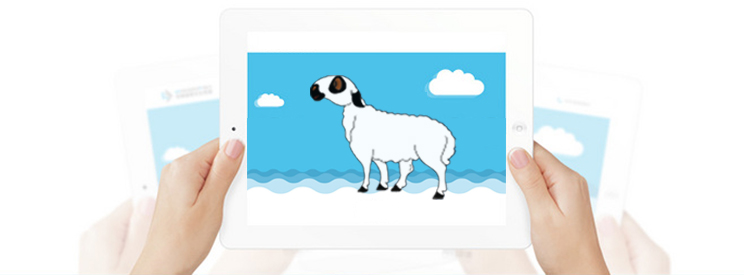
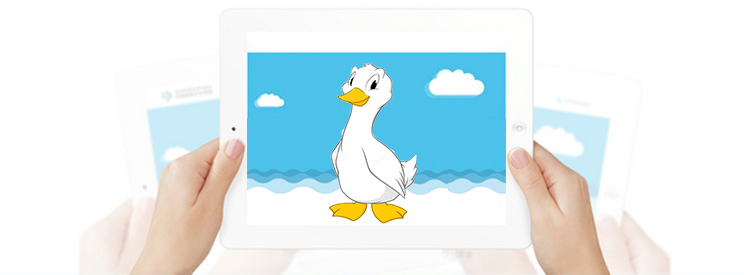
text 2017.12.29

Changed region(s): [[0.4019, 0.2327, 0.6183, 0.8145]]

diff --git a/application/wap/view/Index/introduce.html b/application/wap/view/Index/introduce.html
@@ -25,7 +25,7 @@
 				width: 7.35rem;
 				height: 2.45rem;
 				margin: 2rem auto 0.425rem auto;
-				background: url(__WAP__/img/logo.jpg) no-repeat center center;
+				background: url(__WAP__/img/logo.png) no-repeat center center;
 				background-size: cover;
 			}
 
@@ -54,7 +54,7 @@
 			.illustration01 {
 				width: 100%;
 				height: 6rem;
-				background: url(__WAP__/img/project.jpg) no-repeat center center;
+				background: url(__WAP__/img/imgs/200586608227222347.jpg) no-repeat center center;
 				background-size: 100%;
 				margin-top: 0.7rem;
 			}
@@ -99,12 +99,21 @@
 					<div class="brief_introduction">
 						<div class="word-spacing">三、农场风景</div>
 						<ul>
-							<li><img src="__WAP__/img/inn01.jpg" alt=""></li>
-							<li><img src="__WAP__/img/inn02.jpg" alt=""></li>
-							<li><img src="__WAP__/img/inn03.jpg" alt=""></li>
-							<li><img src="__WAP__/img/inn04.jpg" alt=""></li>
-							<li><img src="__WAP__/img/inn05.jpg" alt=""></li>
-							<li><img src="__WAP__/img/inn06.jpg" alt=""></li>
+							
+							
+							<li><img src="__WAP__/img/imgs/754557524470035137.jpg" alt=""></li>
+							<li><img src="__WAP__/img/imgs/711103321430648406.jpg" alt=""></li>
+							<li><img src="__WAP__/img/imgs/158164013920032663.jpg" alt=""></li>
+							
+							<li><img src="__WAP__/img/imgs/542396689565348476.jpg" alt=""></li>
+							<li><img src="__WAP__/img/imgs/373644775705408907.jpg" alt=""></li>
+							<li><img src="__WAP__/img/imgs/51846051622239686.jpg" alt=""></li>
+							<li><img src="__WAP__/img/imgs/823884902952586132.jpg" alt=""></li>
+							<li><img src="__WAP__/img/imgs/774990378130531094.jpg"/></li>
+							
+							<li><img src="__WAP__/img/imgs/803919897953210621.jpg"/></li>
+							<li><img src="__WAP__/img/imgs/549207540365034072.jpg"/></li>
+							<li><img src="__WAP__/img/imgs/64428728003577805.jpg"/></li>
 						</ul>
 					</div>
 				</div>
@@ -115,6 +124,7 @@
 		</div>
 		<script src="__WAP__/js/header.js" type="text/javascript" charset="utf-8"></script>
 		<script type="text/javascript">
+			$(".illustration01").height(($(".illustration01").width()/815*441)+"px");
 		</script>
 	</body>
 

diff --git a/application/wap/view/Index/zhidao.html b/application/wap/view/Index/zhidao.html
@@ -83,15 +83,15 @@
 				<div class="grude-in guide_top_04"></div>
 				<div class="guide_middle_04">
 					<div class="guide_detail_04">
-						<h6>快速成为牧主大大</h6>
+						<h6>快速成为农场主大大</h6>
 						<div class="guide_details">
-							<p class=" bold procedure">注册财富牧场</p>
+							<p class=" bold procedure">注册趣味农场</p>
 							<p class="procedure_con">新手送1元现金红包,买鹅可提现。</p>
 							<p class=" bold procedure">实名认证</p>
 							<p class="procedure_con">确认身份，保证信息安全</p>
 							<p class=" bold procedure">添加银行卡</p>
 							<p class="procedure_con">仅本人同名银行卡，保证资金流向安全。</p>
-							<p class=" bold procedure">快来当牧场主</p>
+							<p class=" bold procedure">快来当农场主</p>
 							<p class="procedure_con">年养殖回报15%-18%，3种鹅群可供选择。</p>
 						</div>
 					</div>

diff --git a/application/wap/view/Member/index.html b/application/wap/view/Member/index.html
@@ -148,7 +148,7 @@
 						</li>
 					</ul>
 				</div>
-				<p class="official_record a9" style="text-align:center">郑州汇谷电子科技有限公司<br>豫ICP备15001063号-3</p>
+				<p class="official_record a9" style="text-align:center">© 2016郑州汇谷电子科技有限公司 All rights reserved <br>豫ICP备15001063号-3</p>
 			</div>
 			<div class="footer">
 

diff --git a/public/static/wap/css/style.css b/public/static/wap/css/style.css
@@ -859,6 +859,8 @@ header h1 {
 .uc_c_bottom a {
 	display: block;
 	width: 100%;
+	height: 4rem;
+	overflow: hidden;
 }
 
 .uc_c_middle a p,
